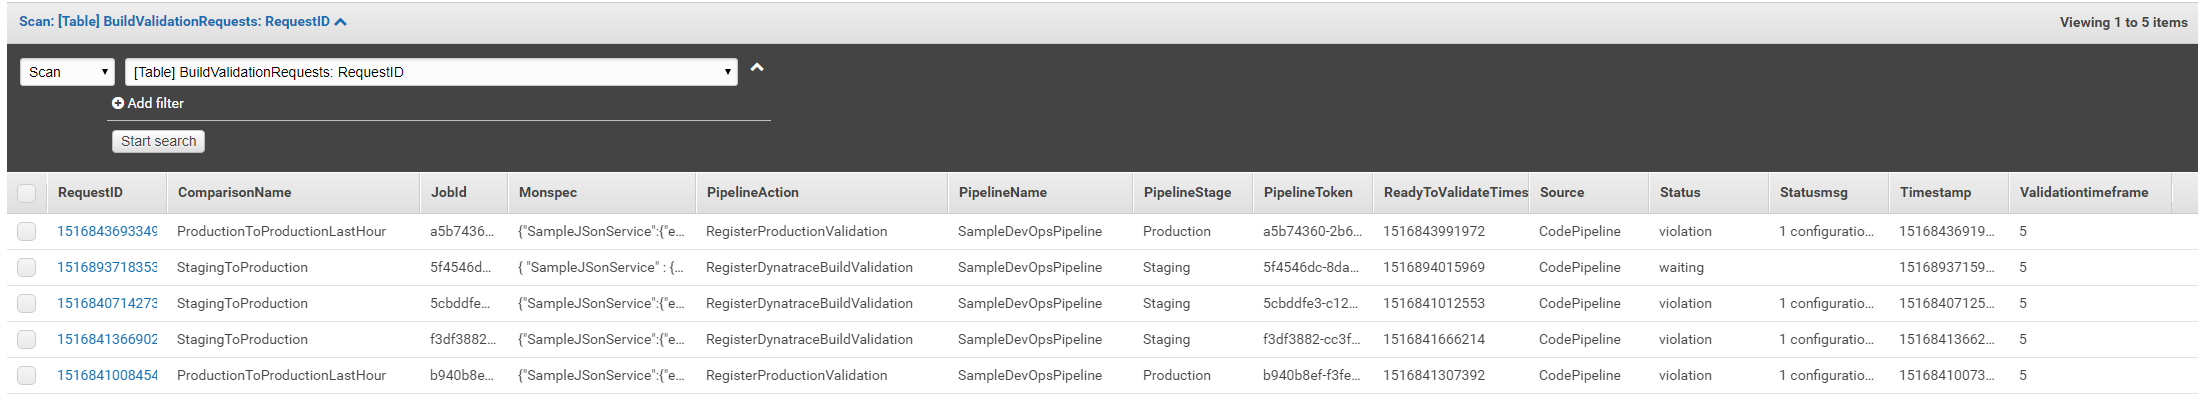
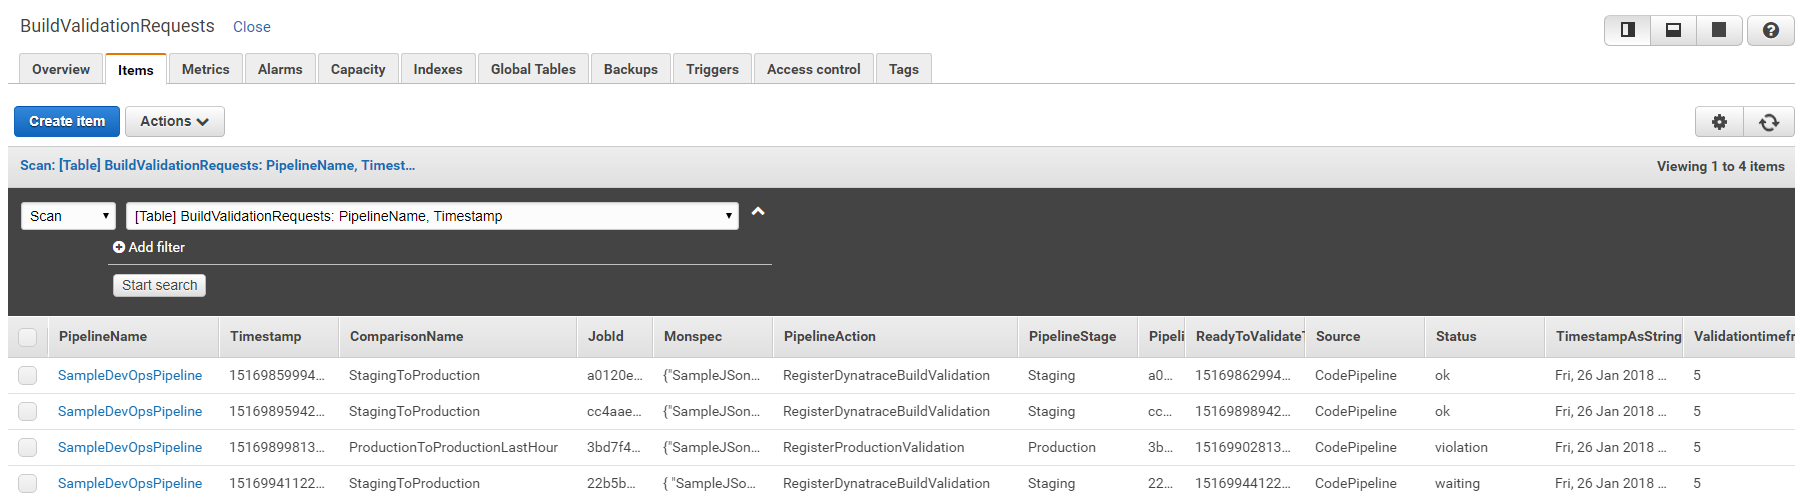
updates

diff --git a/README.md b/README.md
@@ -181,7 +181,8 @@ In our AWS CodePipeline you may have noticed an action called *RegisterDynatrace
 
 *registerDynatraceBuildValidation*: This AWS Lambda is actually not doing a whole lot. It is simply putting a "Build Validation Request" in a DynamoDB table with all the information needed to process the request once the timespan, e.g: 5 minutes has passed. If you want go ahead and explorer your DynamoDB table called *BuildValidationRequests*:
 ![](./images/buildvalidation_dynamodbtable1.png)
-The key data points in that table are: PipelineName, ComparisonName, Timestamp, Validationtimeframe and Status. In my screenshot you can see that 4 build validation requests have already been validated and they all showed a Violation, meaning: the automated metrics comparison between the two specified environments showed a degradation in performance. I have one entry in there in status waiting. Waiting means that it is not yet time as the timeframe, e.g: 5 minutes since the request was put into this table has not yet passed!
+The key data points in that table are: PipelineName, ComparisonName, Timestamp, Validationtimeframe and Status. In my screenshot you can see that 4 build validation requests. 1 is still waiting for validation. Two are in status OK and one shows status Violation! Violation means that the automated metrics comparison between the two specified environments showed a degradation in performance. 
+As for status waiting: Waiting means that it is not yet time as the timeframe, e.g: 5 minutes since the request was put into this table has not yet passed!
 
 *validateBuildDynatraceWorker*: This AWS Lambda is doing all the heavy lifting. It gets triggered via a CloudWatch Rule that calls this function every 2 minutes. The function checks the DynamoDB table and processes those entries that are in status "Waiting" and where "the time is right". The function then looks at the monspec file which contains the definition of environments, comparison configurations as well as metrics. Based on that configuration data the function uses the Dynatrace Timeseries API and pulls in the metrics from the entities and compares them. The result gets put back onto the DynamoDB Item. The monspec column contains all values from the source and the comparison source as well as status information for every compared metric and an overall status. The overall status is also reflected in the Status column.
 ![](./images/buildvalidation_cloudwatchrule1.png)
@@ -209,8 +210,15 @@ In order to automatically validate the Production Approval Stage we simply do th
 ![](./images/buildvalidation_automateproductionapproval.png)
 
 THATS IT!!! - From now on our pipeline approvals will automatically be accepted or rejected based on Dynatrace Build Validation Results. We can always manually approve these actions BEFORE Dynatrace gets to - but - well - whats the point in automating then? :-)
-In case Dynatrace Accepts or Rejects the Approval Stage you will find details about it on the Action itself. In case it fails the details also include the link to your report. Here is an example:
-![](./images/buildvalidation_approvaldetails.png)
+In case Dynatrace Accepts or Rejects the Approval Stage you will find details about it on the Action itself. You also find a link to the report that gives you the historical overview.
+
+Approval Example | Reject Example
+![](./images/buildvalidation_approvaldetails.png) | ![](./images/buildvalidation_rejectdetails.png)
+
+Here is the build validation overview report showing how it looks like when one of the build didnt validate successful. Seems in my case the max response time is above the allowed threshold:
+![](./images/buildvalidation_htmlreport2.png)
+
+**TIP**: If Dynatrace rejects a build but you still want to push it into the next stage simply "Retry" that approval stage and then manually approve it!
 
 ### Deploy a "bad" version into Staging
 
